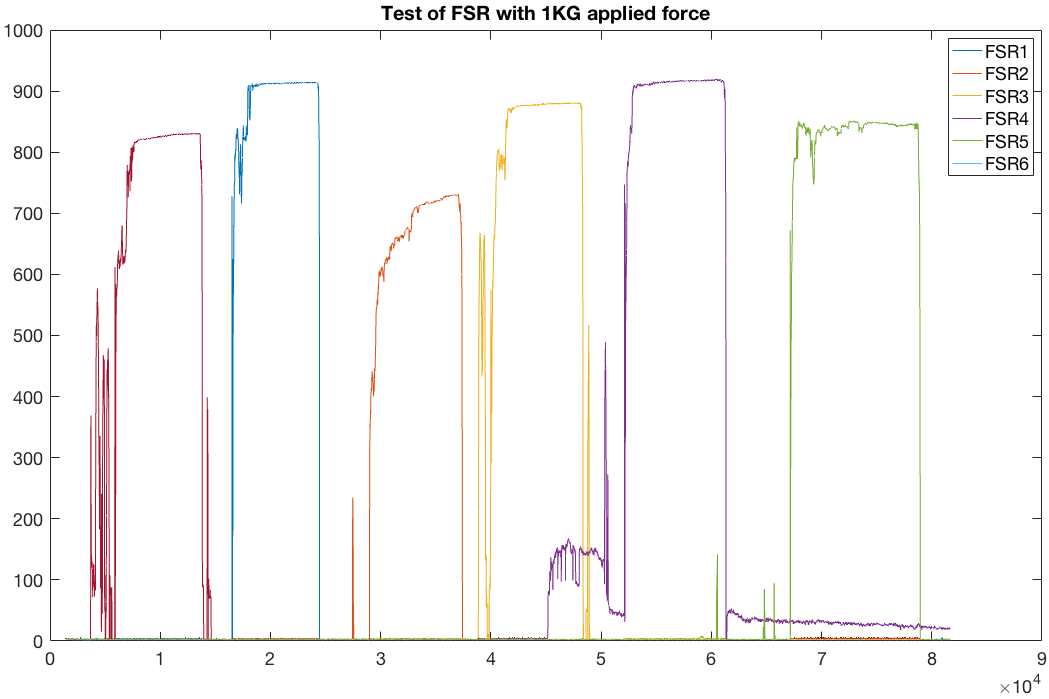
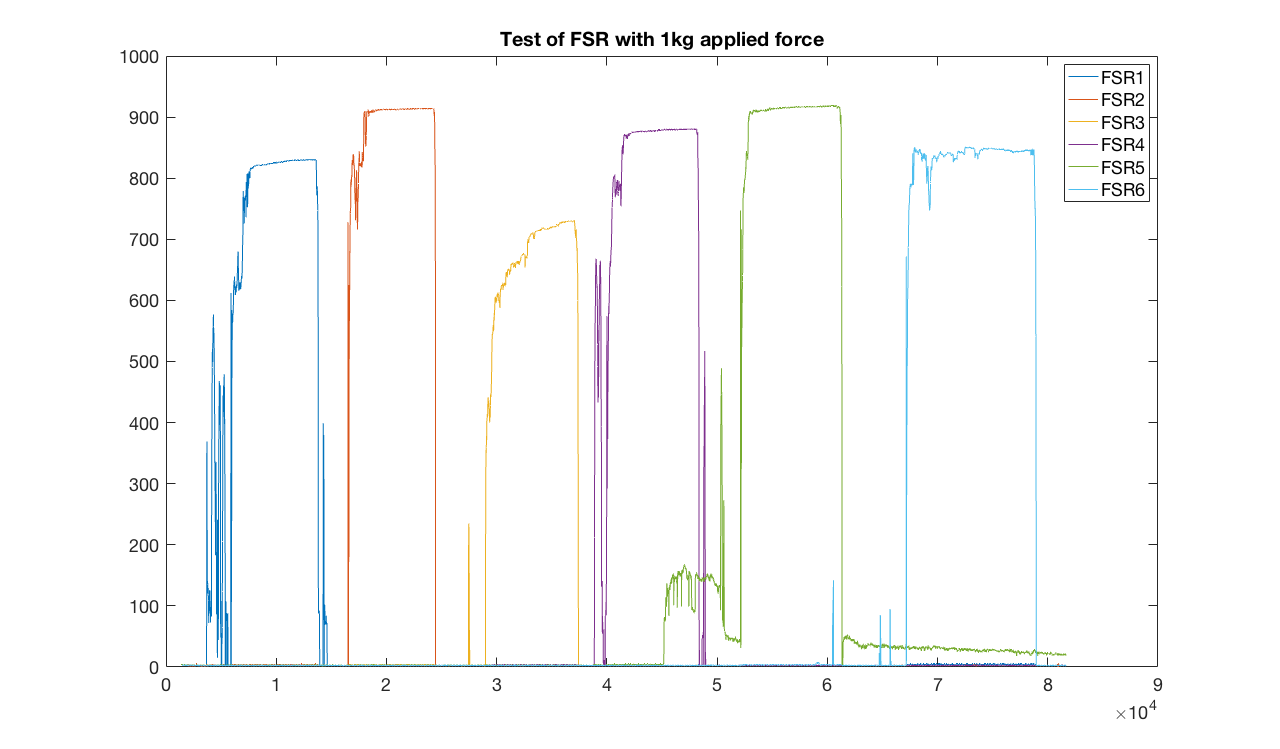
changes to test, instrumentation, dataAcquisition sections. also plot of FSR test

diff --git a/contents/bMethods/bNEWSystemTest.tex b/contents/bMethods/bNEWSystemTest.tex
@@ -10,18 +10,32 @@ The authors assess that a test of the gyroscopes is not necessary, as the Shimme
 
 
 \subsection{Method of test for Force Sensitive Resistors}
-The FSR will be tested by placing a 1kg weight covering a surface area of “insert cm2” on the 402 sensors and “insert cm2” on the 406 sensors and measuring the resulting resistance with a “insert voltmeter name here”. This is done to ensure that none of the sensors are either broken or deviate compared to the mean result of the test. 
+The FSRs will be tested by placing a 1kg weight covering a surface area of “insert cm2” applied in the middle of both types of FSRs. This is done to test if any of the sensors are broken or deviate compared to the other FSRs. %mean result of the test.
 
 %retfærdigøre at vi brugere sensore der "kun" kan måle så lidt tryk til at måle under folk som vejer +50 kg. Sikkert noget med at simon har sat modstande i systemet som øger sensorernes måling af tryk påvirkning. 
 
 \subsection{Test  results for Force Sensitive Resistors}
+A weight of 1kg were applied to each FSR in order from FSR channel 1 to 6. The weight were applied for approximately 5 seconds to each FSR in the middle of the sensor area. Results of the test of the FSRs is shown in \figref{fig:FSRTestPlot1kg}.
 
-Everything was *hopefully*fine. 
+\begin{figure}[H]
+	\includegraphics[width=.6\textwidth]{figures/FSRTestPlot1kg}
+	\caption{The result of the test of the 6 FSRs.}
+	\label{fig:FSRTestPlot1kg}  %<--remember LABEL!
+\end{figure}
+
+As it \textbf{"might"} can be seen from the results of the FSR test, FSR number 3, located at the heel of the right foot, returns a lower resistance when applied a 1kg weight compared to the other FSRs. 
+
+%Tell the truth.
+The authors learned too late in the work period that one of the FSRs were returning resistance varying from the other FSRs. This was not anticipated and no replacement had been ordered. However, the authors hope/judge/evaluate that the FSR will not affect the data processing the calculations of Centre of Pressure (COP) too much.
+
+%tell the big fat lie
+During continuous testing of the system during development the authors experienced damage to one of the FSRs, and are at this point in the work, unable to obtain a replacement. However, as this project is mainly to function as a proof of concept work, the authors determine that one sensor should not affect 
 
 
 
 \subsection{System test}
 The system as a whole will be tested with a walk sequence. The sequence will involve periods of no movement, movement by walking and turning and a light jump to mark the beginning and end of the sequence. The walk sequence is as follows:
+
 \begin{itemize}
 	\item Start
 	\item 3 second pause
@@ -41,13 +55,6 @@ Following the system test the acquired data will be qualitatively evaluated to e
 \subsection{Test results for System test}
 Everything was fine. 
 
-%sensor bait text fra DataAcquisition.tex
-A problem occurred with the FSR 406 placed under the heel of the subject during the system test . When weight was applied to the sensor it would measure the highest possible force the sensor can measure, and no useful data could be collected from the sensor. It was evaluated why this happened and discovered that because the FSR 406 covers a larger area and were placed at the heel it would be affected by more force when a subject stood on it. As the distribution of pressure is higher at the heel compared to anywhere else under the foot while standing, it makes sense that the FSR 406 would be overloaded \cite{Hessert2005}. To account for this, the FSR 402 placed at the lateral side of the feet where switched with the FSR 406 at the heel. As the FSR 402 covers a smaller area they would not be overloaded as easily as the FSR 406. As a result the FSR 406 is now placed at the lateral side of the eminence of the sole, and one FSR 402 is placed at the heel. The new placement of FSR sensors can be seen in \figref{fig:soleSensorPlacement}.
-
-\begin{figure}[H]
-	\includegraphics[width=.6\textwidth]{figures/humanSoleSensorPlacement}
-	\caption{The new placement of the FSR 402s and 406 under the foot of subjects.}
-	\label{fig:soleSensorPlacement}  %<--remember LABEL!
-\end{figure}
-
-With the new placement of the FSR’s the system functions as intended and is ready for the experiment. 
+%not necessary 
+%A problem occurred with the FSR 406 placed under the heel of the subject during the system test . When weight was applied to the sensor it would measure the highest possible force the sensor can measure, and no useful data could be collected from the sensor. It was evaluated why this happened and discovered that because the FSR 406 covers a larger area and were placed at the heel it would be affected by more force when a subject stood on it. As the distribution of pressure is higher at the heel compared to anywhere else under the foot while standing, it makes sense that the FSR 406 would be overloaded \cite{Hessert2005}. To account for this, the FSR 402 placed at the lateral side of the feet where switched with the FSR 406 at the heel. As the FSR 402 covers a smaller area they would not be overloaded as easily as the FSR 406. As a result the FSR 406 is now placed at the lateral side of the eminence of the sole, and one FSR 402 is placed at the heel. The new placement of FSR sensors can be seen in \figref{fig:soleSensorPlacement}.
+%With the new placement of the FSR’s the system functions as intended and is ready for the experiment. 

diff --git a/contents/bMethods/gDataAcquisition.tex b/contents/bMethods/gDataAcquisition.tex
@@ -1,19 +1,5 @@
 \section{Data Acquisition}
 
-During data acquisition the subjects will be wearing the instruments presented earlier in \secref{methods:instrumentation}. The Shimmer3 devices will be placed, one on each leg, lateral distal to the knees of the subject.
-
-The FSRs will be placed on the sole of each foot of the subject. One FSR 406 is placed at the lateral eminence of the sole. Of the two FSR 402 sensors, one will be placed under the heel and the other medial eminence of the sole. The Arduino-setup will be placed at the lower back of the subject and handle data collection. Collected data will be stored on an microSD card for offline analysis with MATLAB. An illustration of device placement on a subject can be seen in \figref{fig:bodySysSetup}.
-
-%% SENSOR BAIT ALERT:
-%jeg har skrevet at vi placere en FSR 406 (den store firkant sensor) under hælen. den skal sidde "bag" lilletåen.
-%sensor bait tekst flyttet til bNEWSystemTest.tex
-
-\begin{figure}[H]
-	\includegraphics[width=.6\textwidth]{figures/bodySysSetup}
-	\caption{The placement of the Shimmer3 IMU devices, Arduino-setup and FSRs on a test subject.}
-	\label{fig:bodySysSetup}  %<--remember LABEL!
-\end{figure}
-
 Data acquisition from both the FSR sensors and the Shimmer3 devices are set to have a sample frequency of 100Hz. This sample rate is used by others performing similar measurements \cite{Verkerke2005, Byun2016, Sherwani2016}. Additionally, the sample rate is decided to be the same so it is possible to match the two data streams to each other, so it is possible to compare measured pressure forces under the feet while matching it to movement of the body. A simple graphical user interface (GUI) have been developed to match the data. This manual approach is favourable for this project as it were determined that it would be more time consuming to develop an algorithm to automatically match data streams. It would also go beyond the scope for the project.
 
 Data from the Shimmer3 devices are send and saved directly to MATLAB via Bluetooth and stored in $nx3$ matrices, one for each leg.

diff --git a/contents/bMethods/fInstrumentation.tex b/contents/bMethods/fInstrumentation.tex
@@ -31,5 +31,28 @@ The system setup as a whole for both the gyroscope and FSR parts can be seen ill
 	\label{fig:heleSystemSetup}  %<--remember LABEL!
 \end{figure}
 
+\subsection{Instrumentation placement}
+
+During data acquisition the subjects will be wearing the instruments presented earlier in \secref{methods:instrumentation}. The Shimmer3 devices will be placed, one on each leg, lateral distal to the knees of the subject.
+
+The FSRs will be placed on the sole of each foot of the subject. One FSR 406 is placed at the lateral eminence of the sole. Of the two FSR 402 sensors, one will be placed under the heel and the other medial eminence of the sole. The placement of FSRs can be seen on \figref{fig:soleSensorPlacement}.
+
+\begin{figure}[H]
+	\includegraphics[width=.6\textwidth]{figures/humanSoleSensorPlacement}
+	\caption{The placement of the FSR 402s and 406 under the foot of subjects.}
+	\label{fig:soleSensorPlacement}  %<--remember LABEL!
+\end{figure}
+
+The Arduino-setup will be placed at the lower back of the subject and handle data collection. Collected data will be stored on an microSD card for offline analysis with MATLAB. An illustration of device placement on a subject can be seen in \figref{fig:bodySysSetup}.
+
+%% SENSOR BAIT ALERT:
+%jeg har skrevet at vi placere en FSR 406 (den store firkant sensor) under hælen. den skal sidde "bag" lilletåen.
+%sensor bait tekst flyttet til bNEWSystemTest.tex
+
+\begin{figure}[H]
+	\includegraphics[width=.6\textwidth]{figures/bodySysSetup}
+	\caption{The placement of the Shimmer3 IMU devices, Arduino-setup and FSRs on a test subject.}
+	\label{fig:bodySysSetup}  %<--remember LABEL!
+\end{figure}
 
 

diff --git a/ourCode/Shimmer Matlab Instrument Driver v2.8/Functions/FSRTestPlot.m b/ourCode/Shimmer Matlab Instrument Driver v2.8/Functions/FSRTestPlot.m
@@ -15,6 +15,6 @@ hold on;
 plot(FTD(:,1),FTD(:,7))
 l = legend('FSR1','FSR2','FSR3','FSR4','FSR5','FSR6');
 l.FontSize = 18;
-t = title('Test of FSR with 1KG applied force'); %or other weight
+t = title('Test of FSR with 1kg applied force'); %or other weight
 t.FontSize = 20;
 set(gca,'FontSize',18)
